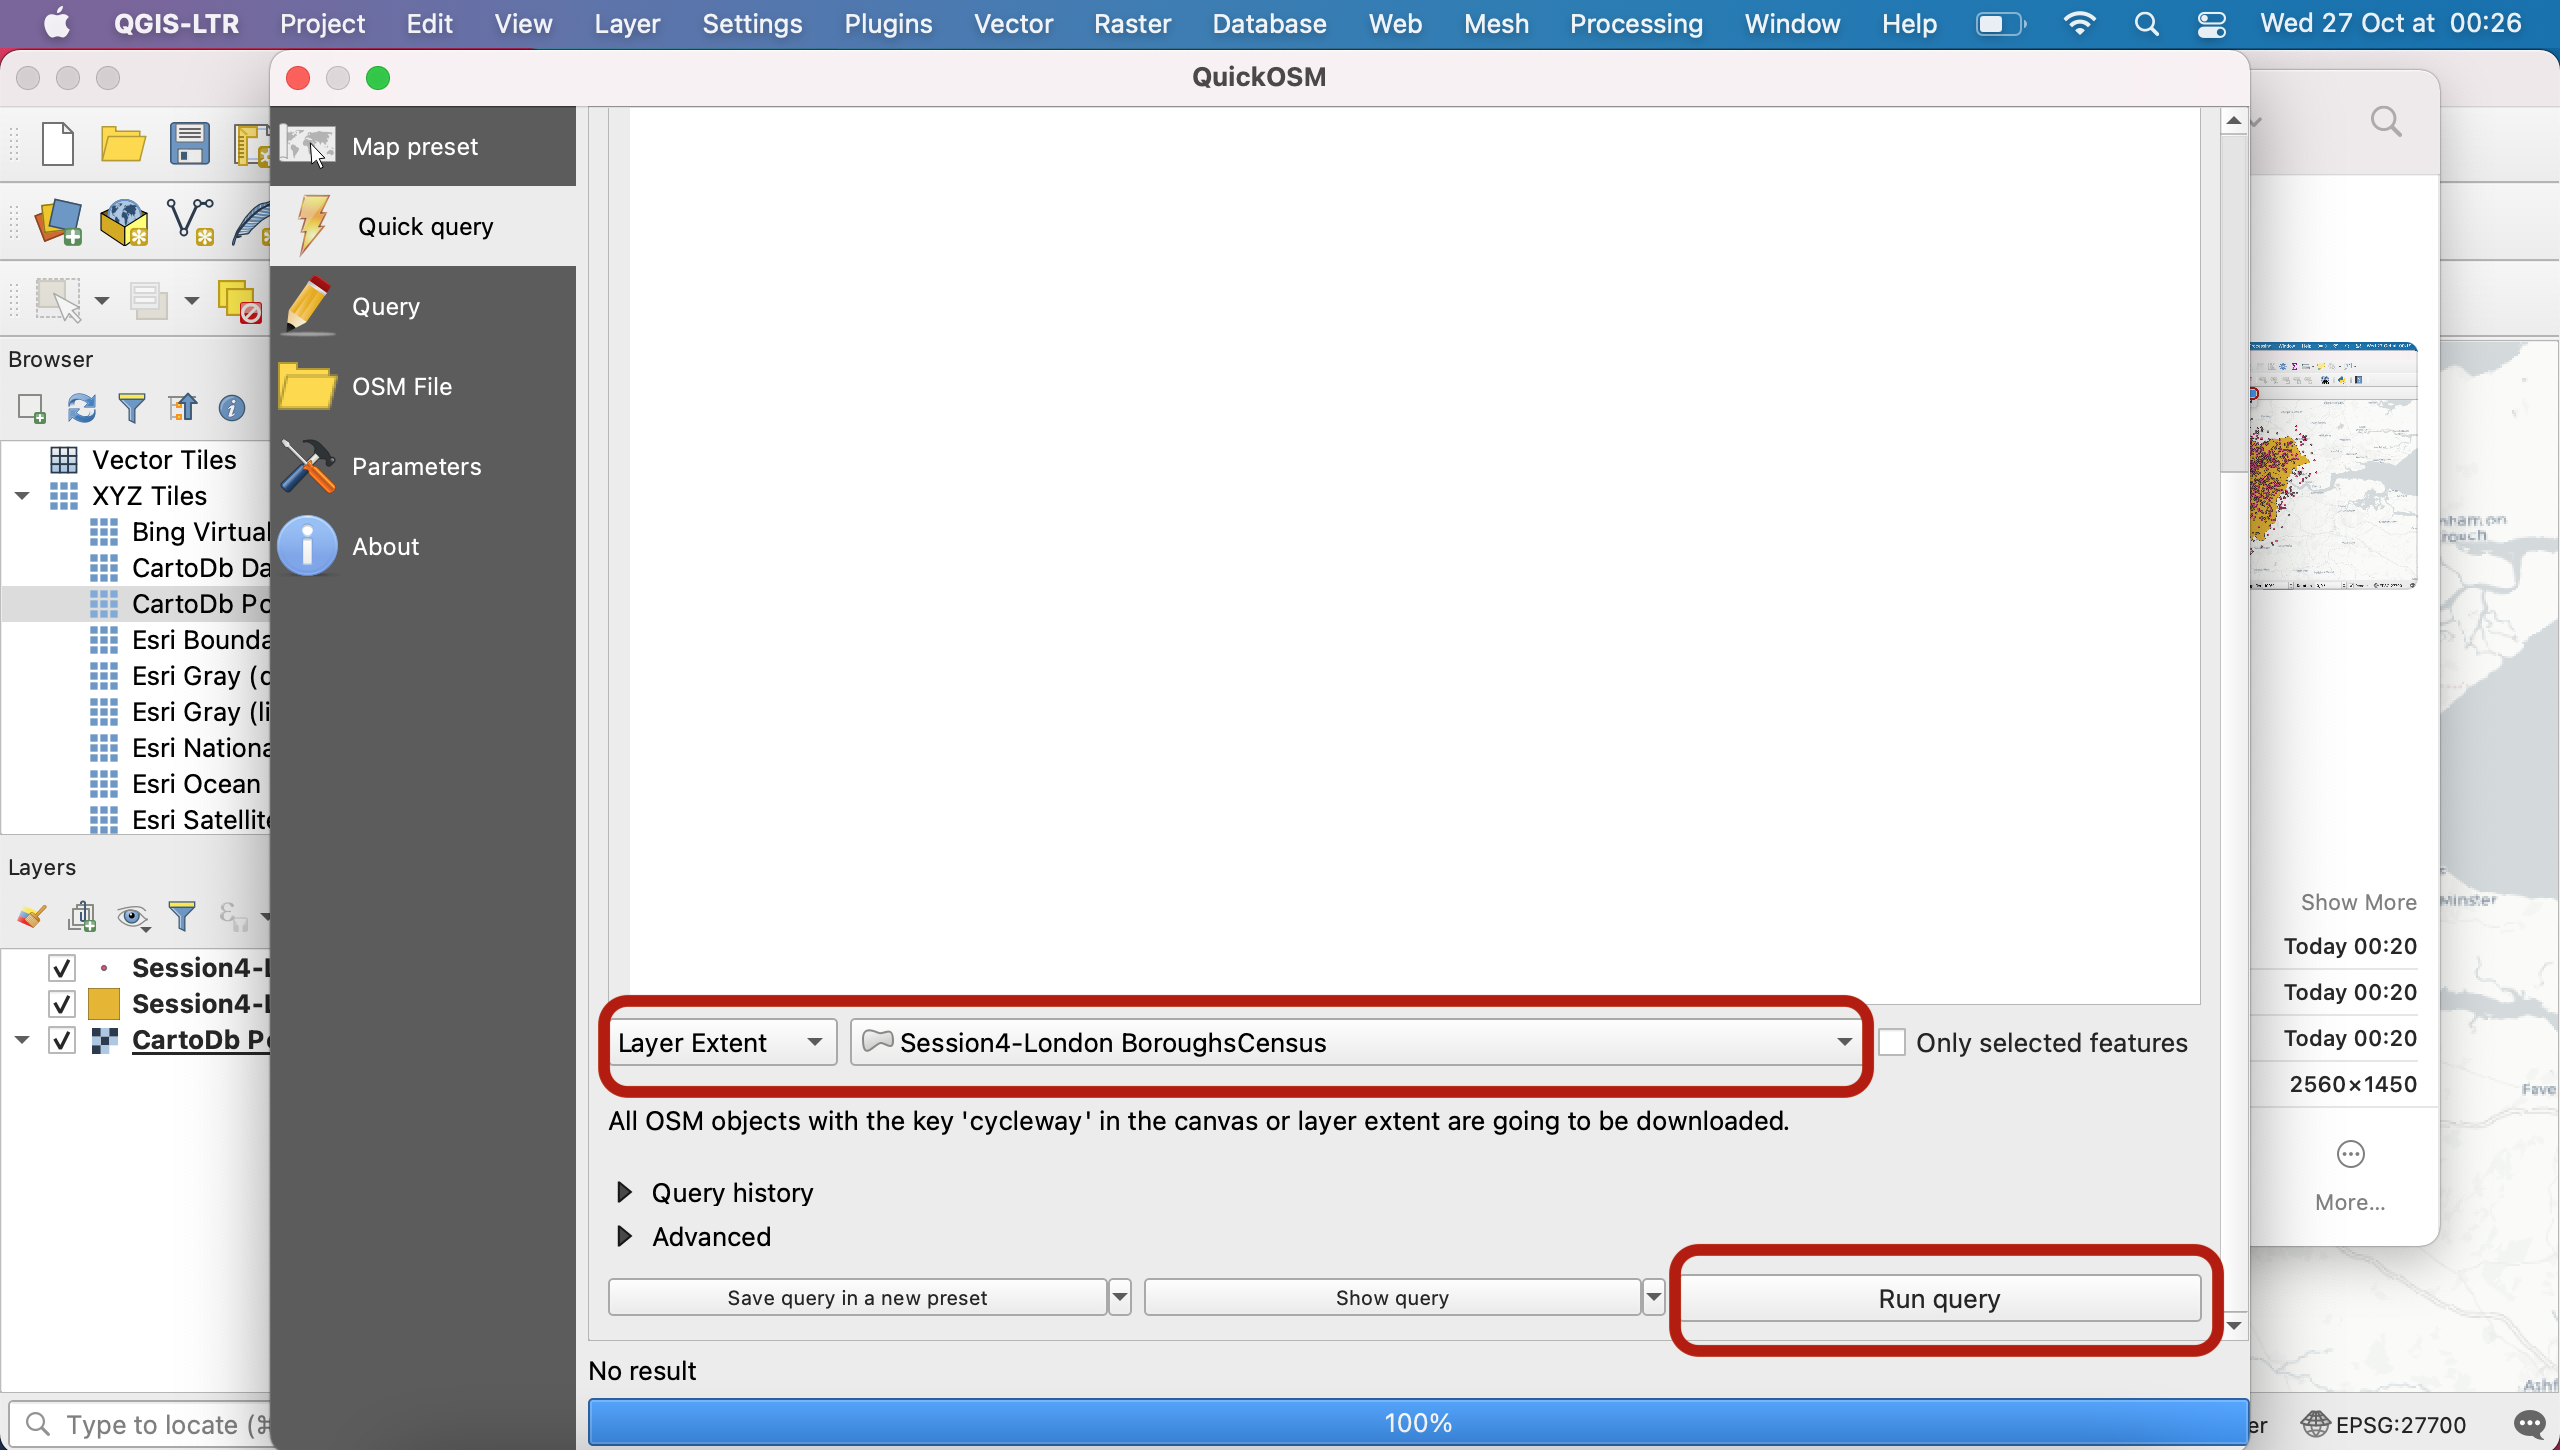
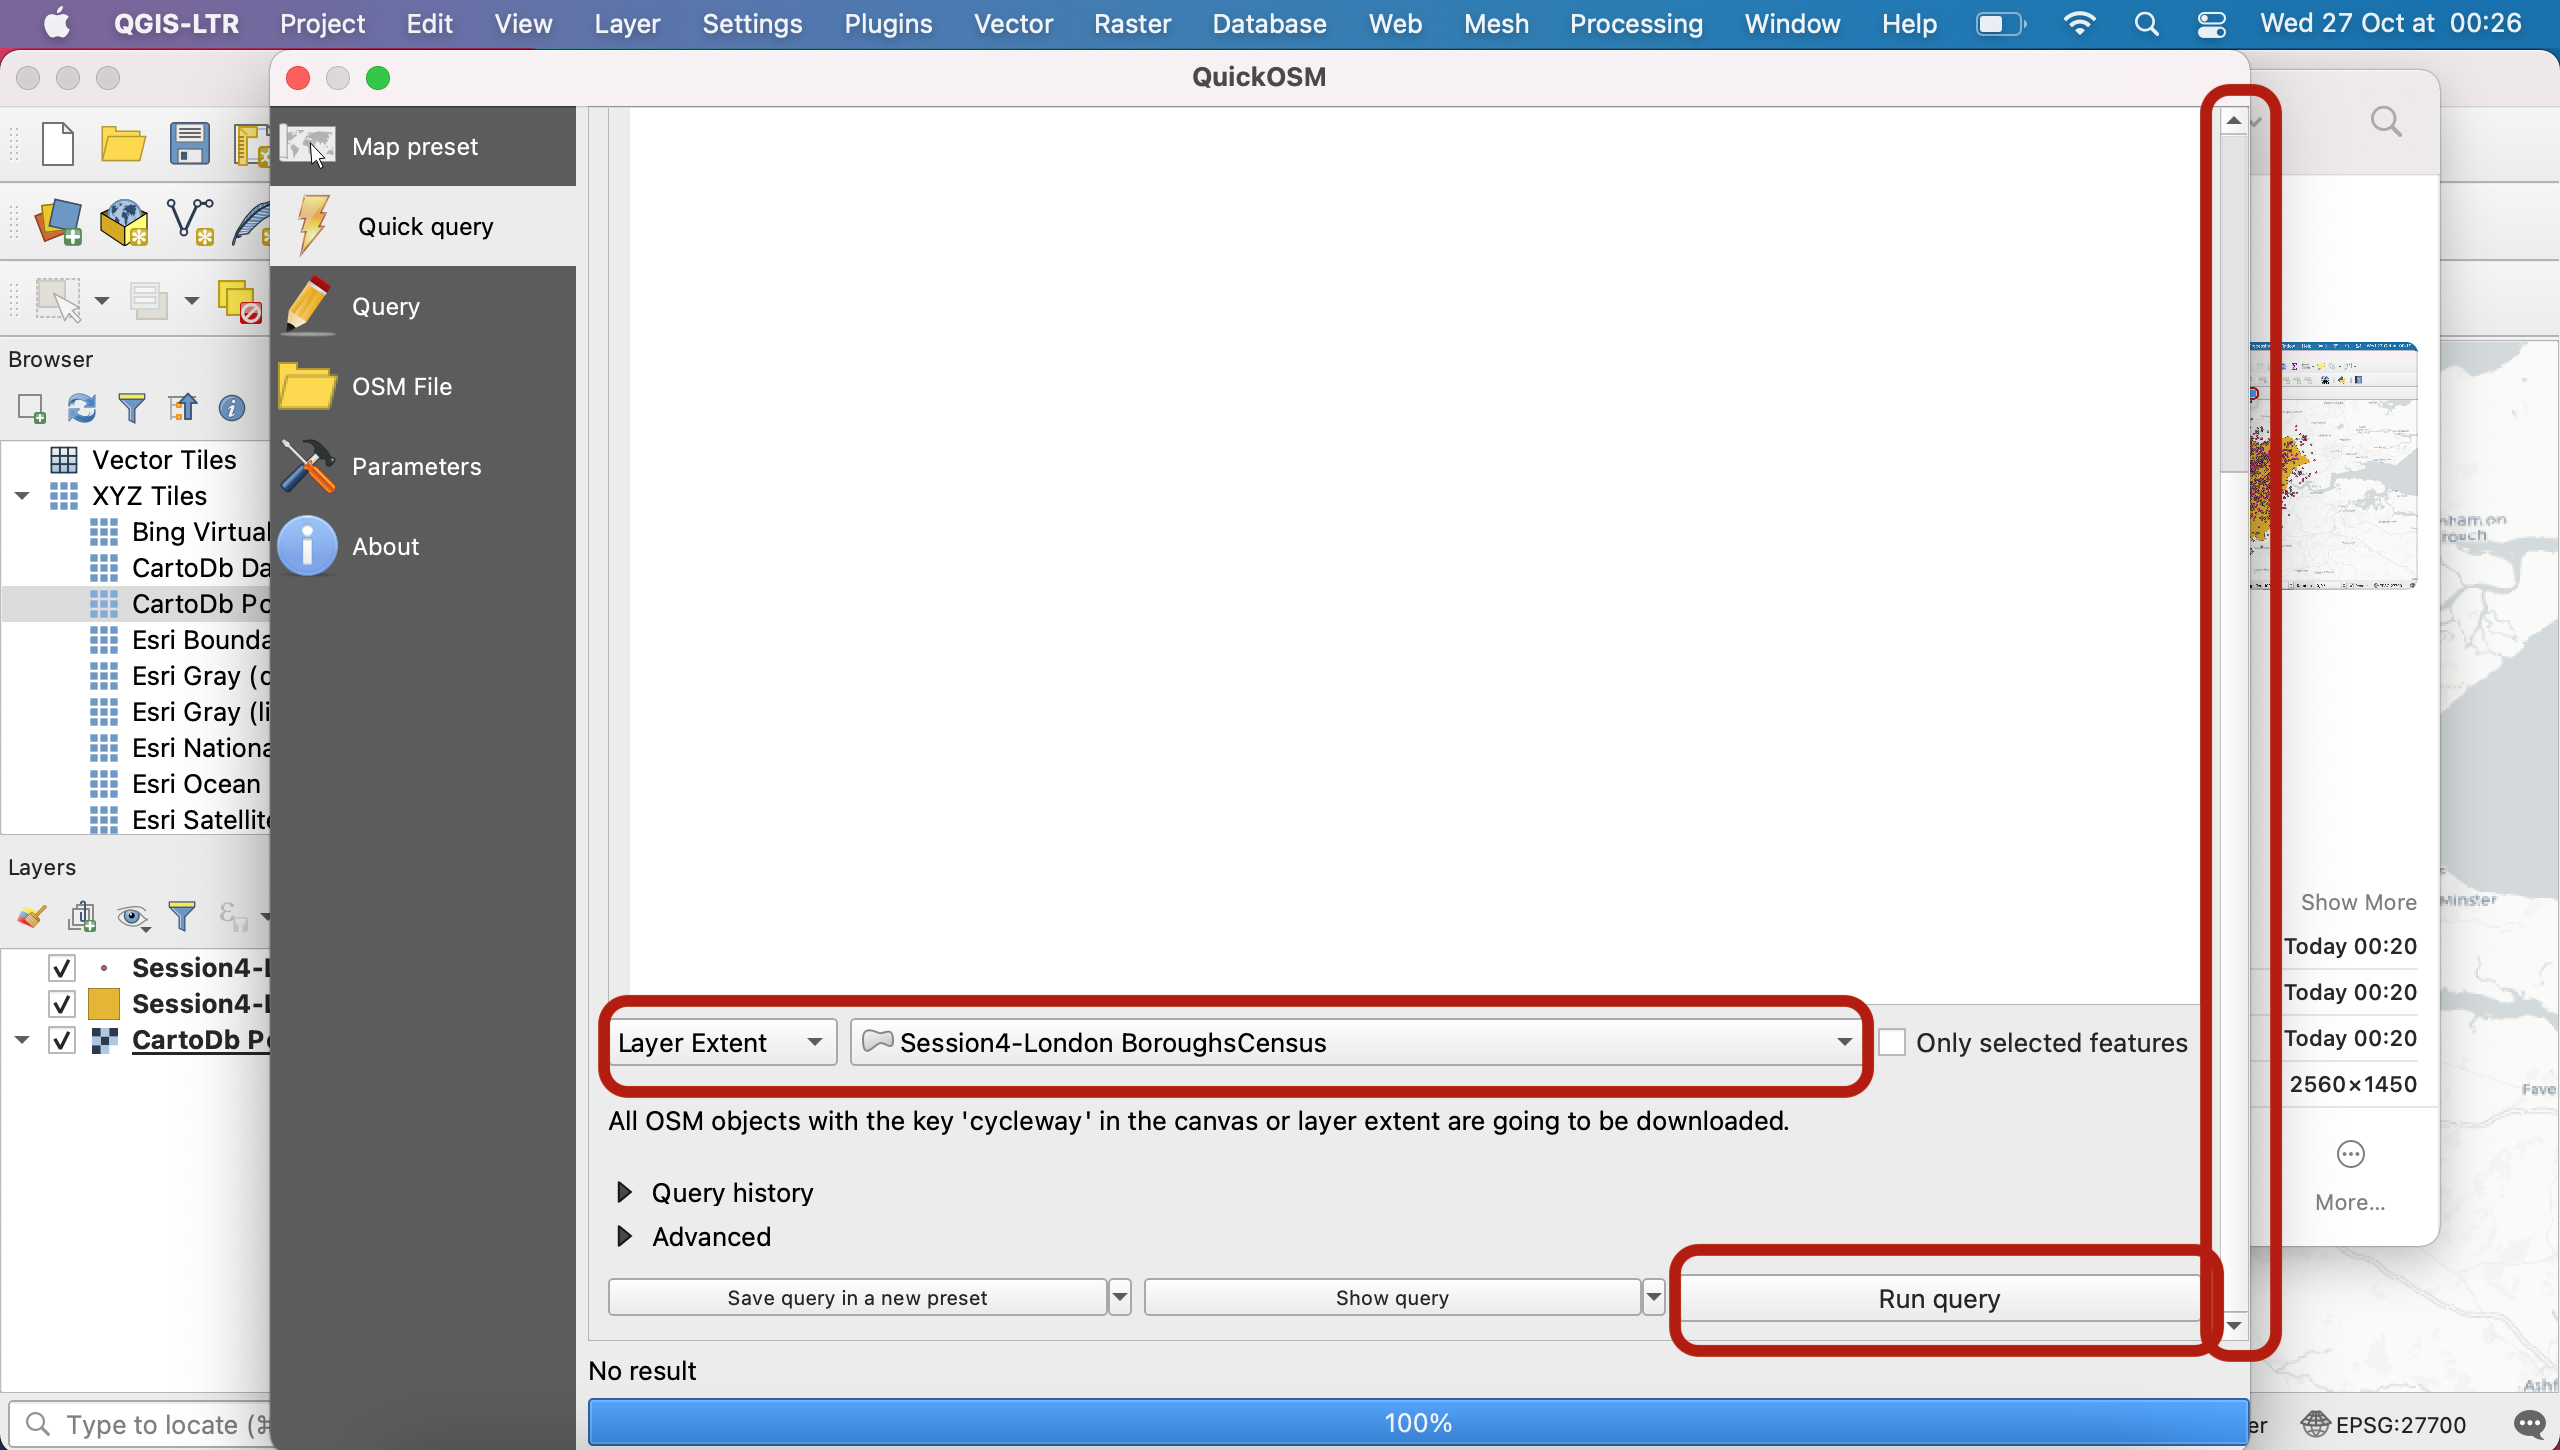
symbology tutorial

Changed region(s): [[0.8438, 0.0621, 0.9062, 0.931]]

diff --git a/Session4/session4_tutorial.md b/Session4/session4_tutorial.md
@@ -30,7 +30,7 @@ Lecturer: Raphaëlle Roffo
 
 ### 1. Setting up
 
-Download the `Session4-exercise` geopackage from GitHub. It contains the same London data as last week. Drag and drop the `Borough-Census` layer and the `School` layer onto your canvas. Make sure the CRS is set to EPSG:27700.
+Download the `Session4-exercise` geopackage from GitHub. It contains the same London data as last week. Drag and drop the `BoroughsCensus` layer and the `Schools` layer onto your canvas. Make sure the CRS is set to `EPSG:27700`.
 
 Pick a basemap of your choice from the `XYZ Tiles` section of your `Browser` panel. I'll be using `CartoDb Positron`.
 
@@ -39,7 +39,7 @@ Pick a basemap of your choice from the `XYZ Tiles` section of your `Browser` pan
 
 ### 2. Loading OSM layer
 
-Now, we have decided we want to look at cycling lanes in the Greater London Metropolitan Area. We will be using crowdsourced data from OpenStreetMap. In order to access this data, we will use the QGIS `QuickOSM` plugin. You can access it through your top menu: `Plugins` > `Manage and Install Plugins...`. Search for quickosm in your searchbar, install the plugin and close this window.
+Now, we have decided we want to look at cycling lanes in the Greater London Metropolitan Area. We will be using crowdsourced data from [OpenStreetMap](https://www.openstreetmap.org/about). In order to access this data, we will use the QGIS `QuickOSM` plugin. You can access it through your top menu: `Plugins` > `Manage and Install Plugins...`. Search "quickosm" in your searchbar, install the plugin and close this window.
 
 <img src="../img/S4-02.png" width="700">
 
@@ -48,33 +48,98 @@ Now, to access the plugin, you can either click the icon that appeared in your t
 
 <img src="../img/S4-03.png" width="700">
 
-This plugin basically enables you to query the (very large!) OpenStreetMap SQL database to load selected layers onto your map canvas. You can learn more about what you're querying [at this address](https://docs.3liz.org/QuickOSM/). Here, we will look for all the `cycleway` features and we don't really care about the values (are they one-way, shared lanes, etc) so leave that blank for now.
+This plugin basically enables you to query the (very large!) OpenStreetMap SQL database and load layers of your choice onto your map canvas. You can learn more about what you're querying [at this address](https://docs.3liz.org/QuickOSM/). Today, we will load all the `cycleway` features and we will see later what kind of filtering we might want to do using the values (are they one-way, shared lanes, etc), so leave the `Value` box blank for now.
 
 <img src="../img/S4-04.png" width="700">
 
-Scroll down in the menu and select the spatial extent of your Boroughs layer as the query extent. It means you only want to download cycleways that are within the Greater London boundaries. Press `Run query`.
+Scroll down in the menu (maybe use the vertical scroll bar) and select the spatial extent of your Boroughs layer as the query extent. It means you only want to download cycleways that are within the Greater London boundaries. Press `Run query`.
 
 
 <img src="../img/S4-05.png" width="700">
 
-After a few seconds to a few minutes, you shold get a success message and 4 new layers are loaded onto your canvas. Close the query window.
+After a few seconds to a few minutes, you shold get a success message, a 100% blue prorgess bar, and notice that 4 new layers were loaded onto your canvas. Great! You can now close the query window.
 
 <img src="../img/S4-06.png" width="700">
 
-Note that QuickOSM is a very powerful way for you to get access to feature geometries! However attributes can sometimes be a bit messy and tedious to navigate.
+Note that QuickOSM is a very powerful way for you to get access to feature geometries! However attributes can sometimes be a bit messy or lack consistency (same feature types might be given different names) and tedious to navigate.
 
 
-**Warning!** 
-When you create a new layer using a geoprocessing tool, QGIS will produce a temporary layer, aka "scratch layer". This layer only exists for you in _this_ open session of QGIS and is not saved anywhere on your computer. This means unless you do something about it, the layer will be gone next time you reopen this project. Make sure you avoid this rookie mistake by checking that none of your layers display the little hairy box sign. If they do (like in this case, the layers you just queries from OSM) double click and save each of these layers into your project geopackage (giev each layer a meaningful name) or as a new shapefile in your project folder. The little hairy box icon will disappear after you save the layer somewhere on your computer.
+Let's have a look at those layers. For cycling lane you would expect to work with lines, however QuickOSM also loaded a point layer. If you double-click the attribute table, you will notice that those points are actually *nodes* and don't contain especially useful attributes. We can't really use this layer to do anything so we will just remove it from our project.
+
+<img src="../img/S4-08.png" width="700">
+
+
+The polygon layer also doesn't make much sense and only contains a single record.
+
+<img src="../img/S4-10.png" width="700">
+
+ The layer with a single line in it will also not be useful to us. 
+ 
+ <img src="../img/S4-09.png" width="700">
+
+ We will also remove those two layers from our project, and only keep the polyline layer that contains 8296 features.
+
+<img src="../img/S4-11.png" width="700">
+
+
+**Scratch layer Warning!** 
+When you create a new layer using a geoprocessing tool (or in this case the QuickOSM plugin), QGIS will produce a temporary layer, aka "scratch layer". This layer only exists for you in _this_ open session of QGIS and **is not saved anywhere on your computer**. This means unless you do something about it, the layer will be gone next time you reopen this project. Make sure you avoid this rookie mistake by checking that none of your layers display the little hairy box sign. If they do (like in this case, the layers you just queries from OSM) double click and save the layers you want to keep into your project geopackage (give each layer a meaningful name) or as a new shapefile in your project folder. The little hairy box icon will disappear after you save the layer somewhere on your computer.
 
 <img src="../img/S4-07.png" width="700">
 
+In this case, simply save the polyline cycleway layer, and remove the three others from your Layers section if you haven't already.
+
+
+Now that you've saved your cycleway layer (if you refresh your browser, it should appear in your geopackage), let's move on to the symbology step.
+
+
+<img src="../img/S4-12.png" width="700">
 
 
 ### 3. Vector symbology
 
-Symbology
-https://docs.qgis.org/3.16/en/docs/training_manual/basic_map/symbology.html
+**3.1. Accessing symbology settings**
+
+For any layer, you can double click to open its `Layer properties` menu and navigate to the `Symbology` tab to access all the settings. Start with your `Schools` point layer. In the top dropdown menu you're given a few options.
+
+<img src="../img/S4-13.png" width="700">
+
+These 5 options are common to points, lines and polygons alike (points and polygons have a few additional symbology options of their own):
+
+- **No symbols** = nothing is displayed on the map
+- **Single symbol** = all features are displayed the same way
+- **Categorized** = features symbols depend on the value of one of their **categorical** attributes (e.g. which type of school, which type of cycling lane)
+- **Graduated** = features symbols depend on the value of one of their **numerical** attributes (e.g.length of the cycling lane, population count in a borough, etc)
+- **Rule-based** = you can define more advanced nuances using filters and expressions. For instance you could create 3 rules: 1)if a cycling lane is longer than 2km **and** in a separated lane then apply a certain symbology to it, otherwise 2) if it is between 500m and 2km and on a one-way road applly another symbology, and 3) don't display the rest.
+
+
+**3.2 Point symbology**
+
+Using the single symbol, try to change the opacity, size and colour of your points. Note you can also use presets in the section below.
+
+<img src="../img/S4-14.png" width="700">
+
+Now click on the `Simple Marker` to access further customization options. A useful one is the size and colour of stroke, and the shape of your marker. 
+
+<img src="../img/S4-15.png" width="700">
+
+Note that you can even use common logos or import your own SVG or raster symbols to use as markers - for instance here under `Symbol layer type` select `SVG marker` , scroll down and you have access to a large array of logos, including this school logo. You can try it out, then please reverseback to a simple marker symbology of size 2mm and grey colour.
+
+<img src="../img/S4-16.png" width="700">
+
+
+Now that you know more about the symbology customization, let's move on to something more useful for understanding our data. We decide we actually only want to work on primary schools that are currently operational (not closed, not opening in the future). To do so, we want to edit the definition query of our layer so that we only display the open primary school features. Navigate to your `Source` tab, and click `Query builder`. FInd out what values are available for different fields. For instance select `STATUS` and click on Sample `All` values. You can double click a field, an operator and a value to directly add them into your expression. Use `Test` to see if your expression has any syntax error.
+Write the query that keeps primary schools that are still open, click OK to close this window, click `Apply` in the `Source` tab and go back to your `Symbology` tab.
+
+<img src="../img/S4-17.png" width="700">
+
+We are now interested in displaying mixed gender and separated boys/girls schools in different colours, to see if there is any geographical pattern as to where certain types of schools can be found. To do so, we will use a `Categorized` symbology and pick `GENDER` as our value. Click `Classify` to load the Gender values into your legend. Note that you can update your base symbol and choose a specific colour ramp, or you can edit each symbol one by one by clicking on them directly.
+
+<img src="../img/S4-18.png" width="700">
+
+
+
+To go further, read more about the symbology on the [Documentation](https://docs.qgis.org/3.16/en/docs/training_manual/basic_map/symbology.html)
 
 
 
